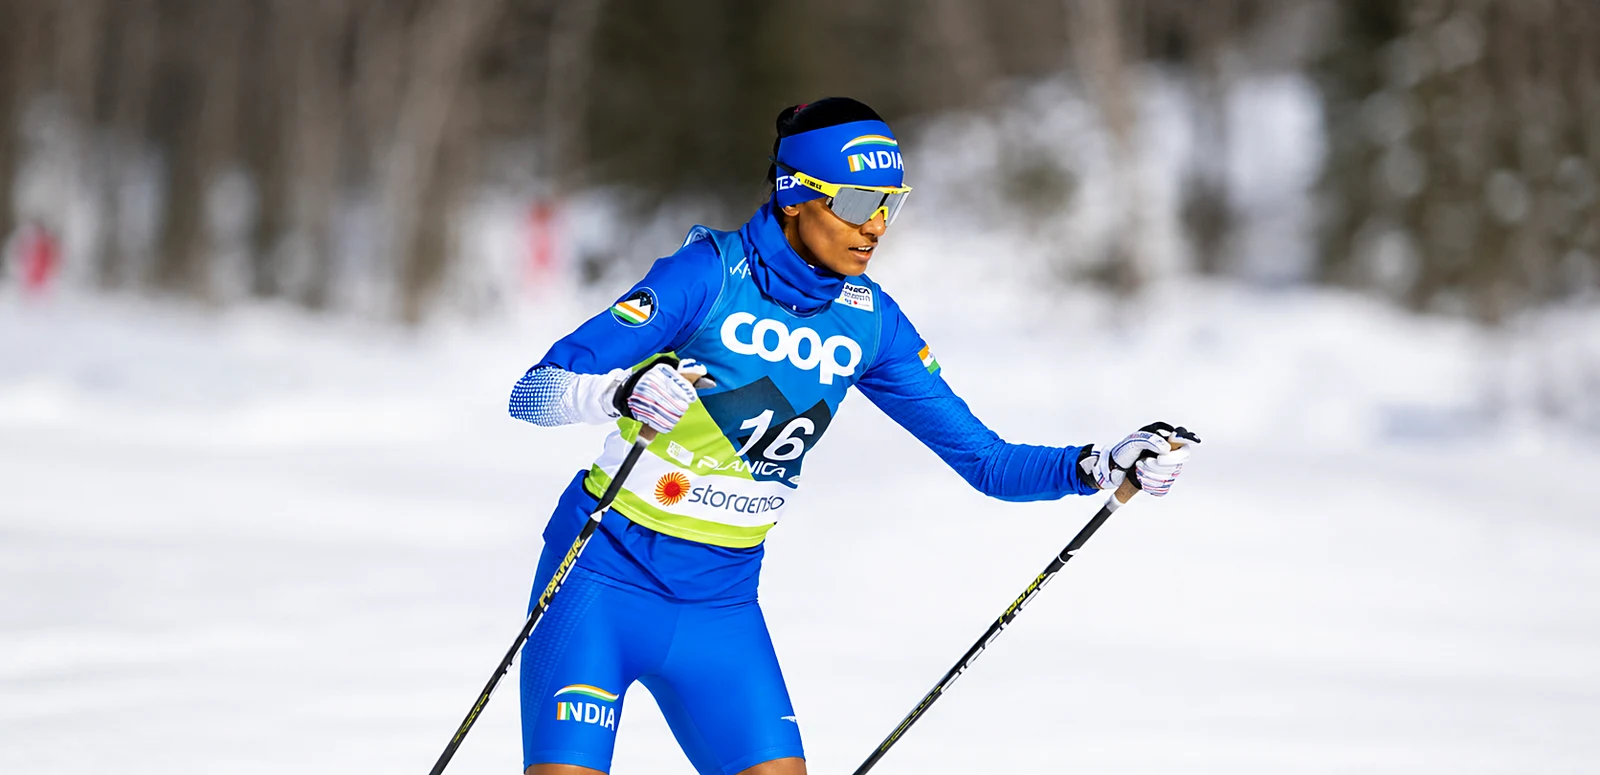
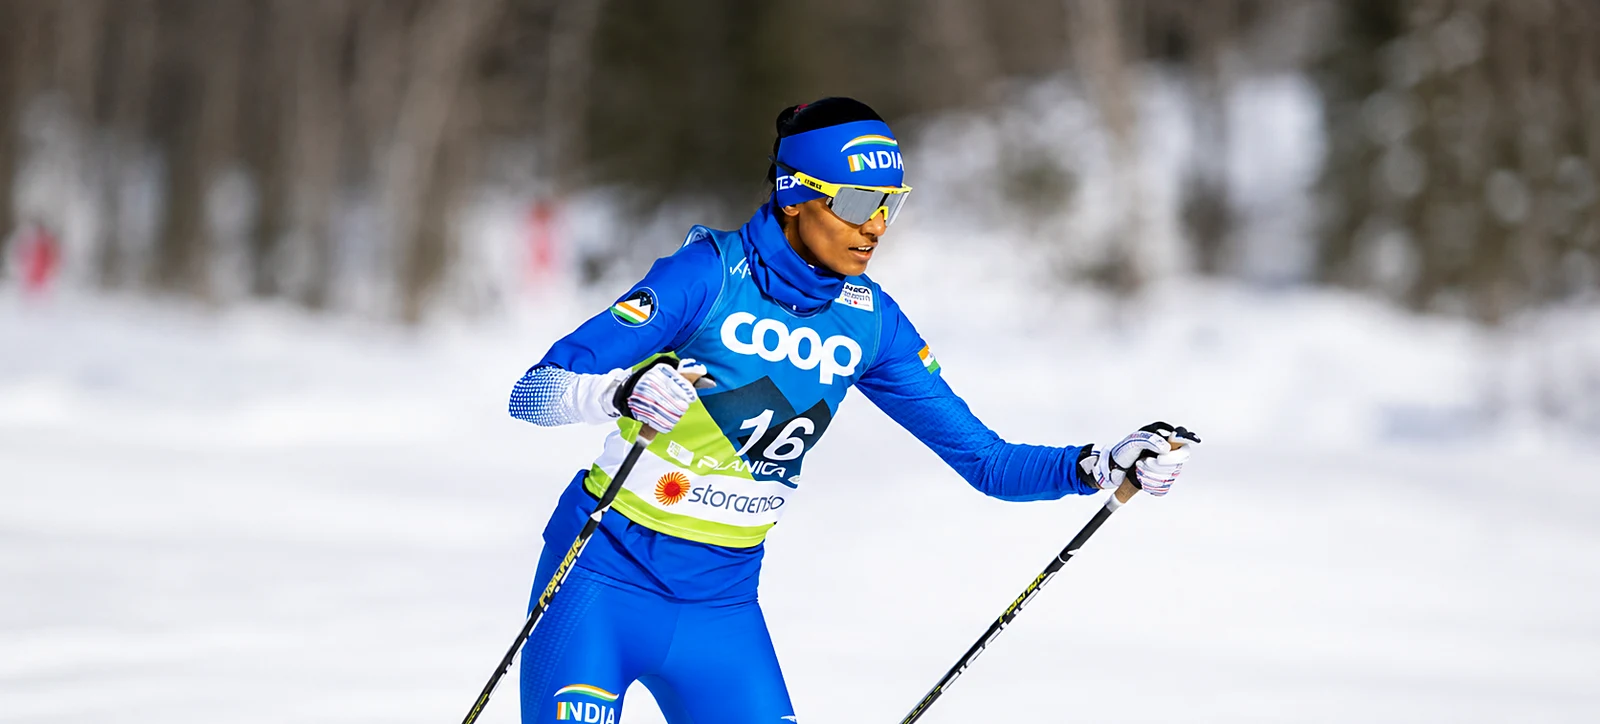
New client photographs for the hero and Who she is
Hero takes the client's pre-cropped race frame (1672x757, ends
above the knees as instructed). Who she is takes the studio
portrait: white and blue polo, arms folded, plain wall, no
branding at all, which retires the inpainted Reliance polo shot
and its clone artefacts. Light finish on both, alt text and focal
point updated for the new portrait.

diff --git a/v2/index.html b/v2/index.html
@@ -33,7 +33,7 @@
 <div class="stack">
 
 <section class="panel" data-size="hero">
-  <div class="panel-shot"><img src="../assets/img/hero-race-pro-1600.webp" srcset="../assets/img/hero-race-pro-480.webp 480w, ../assets/img/hero-race-pro-960.webp 960w, ../assets/img/hero-race-pro-1600.webp 1600w" sizes="100vw" width="1672" height="810" alt="Bhavani Thekkada mid-race in the India suit and bib 16, poling through a classic stride on a snow course." loading="eager" decoding="async" fetchpriority="high" style="object-position:48% 30%"></div>
+  <div class="panel-shot"><img src="../assets/img/hero-race-pro-1600.webp" srcset="../assets/img/hero-race-pro-480.webp 480w, ../assets/img/hero-race-pro-960.webp 960w, ../assets/img/hero-race-pro-1600.webp 1600w" sizes="100vw" width="1672" height="757" alt="Bhavani Thekkada mid-race in the India suit and bib 16, poling through a classic stride on a snow course." loading="eager" decoding="async" fetchpriority="high" style="object-position:48% 30%"></div>
   <div class="wrap panel-body hero-min" data-rise>
     <h1 aria-label="Bhavani Thekkada"><span>Bhavani</span>
       <span class="stagger">Thekkada</span></h1>
@@ -62,7 +62,7 @@
 </section>
 
 <section class="split" id="who">
-  <figure class="split-shot"><img src="../assets/img/portrait-studio-1600.webp" srcset="../assets/img/portrait-studio-480.webp 480w, ../assets/img/portrait-studio-960.webp 960w, ../assets/img/portrait-studio-1600.webp 1600w" sizes="(min-width:900px) 50vw, 100vw" width="2689" height="4026" alt="Bhavani Thekkada in a white Reliance Foundation polo shirt, arms folded, photographed against a plain light background." loading="lazy" decoding="async" style="object-position:50.0% 24.0%"></figure>
+  <figure class="split-shot"><img src="../assets/img/portrait-studio-1600.webp" srcset="../assets/img/portrait-studio-480.webp 480w, ../assets/img/portrait-studio-960.webp 960w, ../assets/img/portrait-studio-1600.webp 1600w" sizes="(min-width:900px) 50vw, 100vw" width="1024" height="1535" alt="Bhavani Thekkada in a white and blue polo, arms folded, photographed against a plain studio wall." loading="lazy" decoding="async" style="object-position:50.0% 26.0%"></figure>
   <div class="split-body" data-rise>
     <p class="caption">Who she is</p>
     <h2>It started with a film, and a race on television.</h2>
